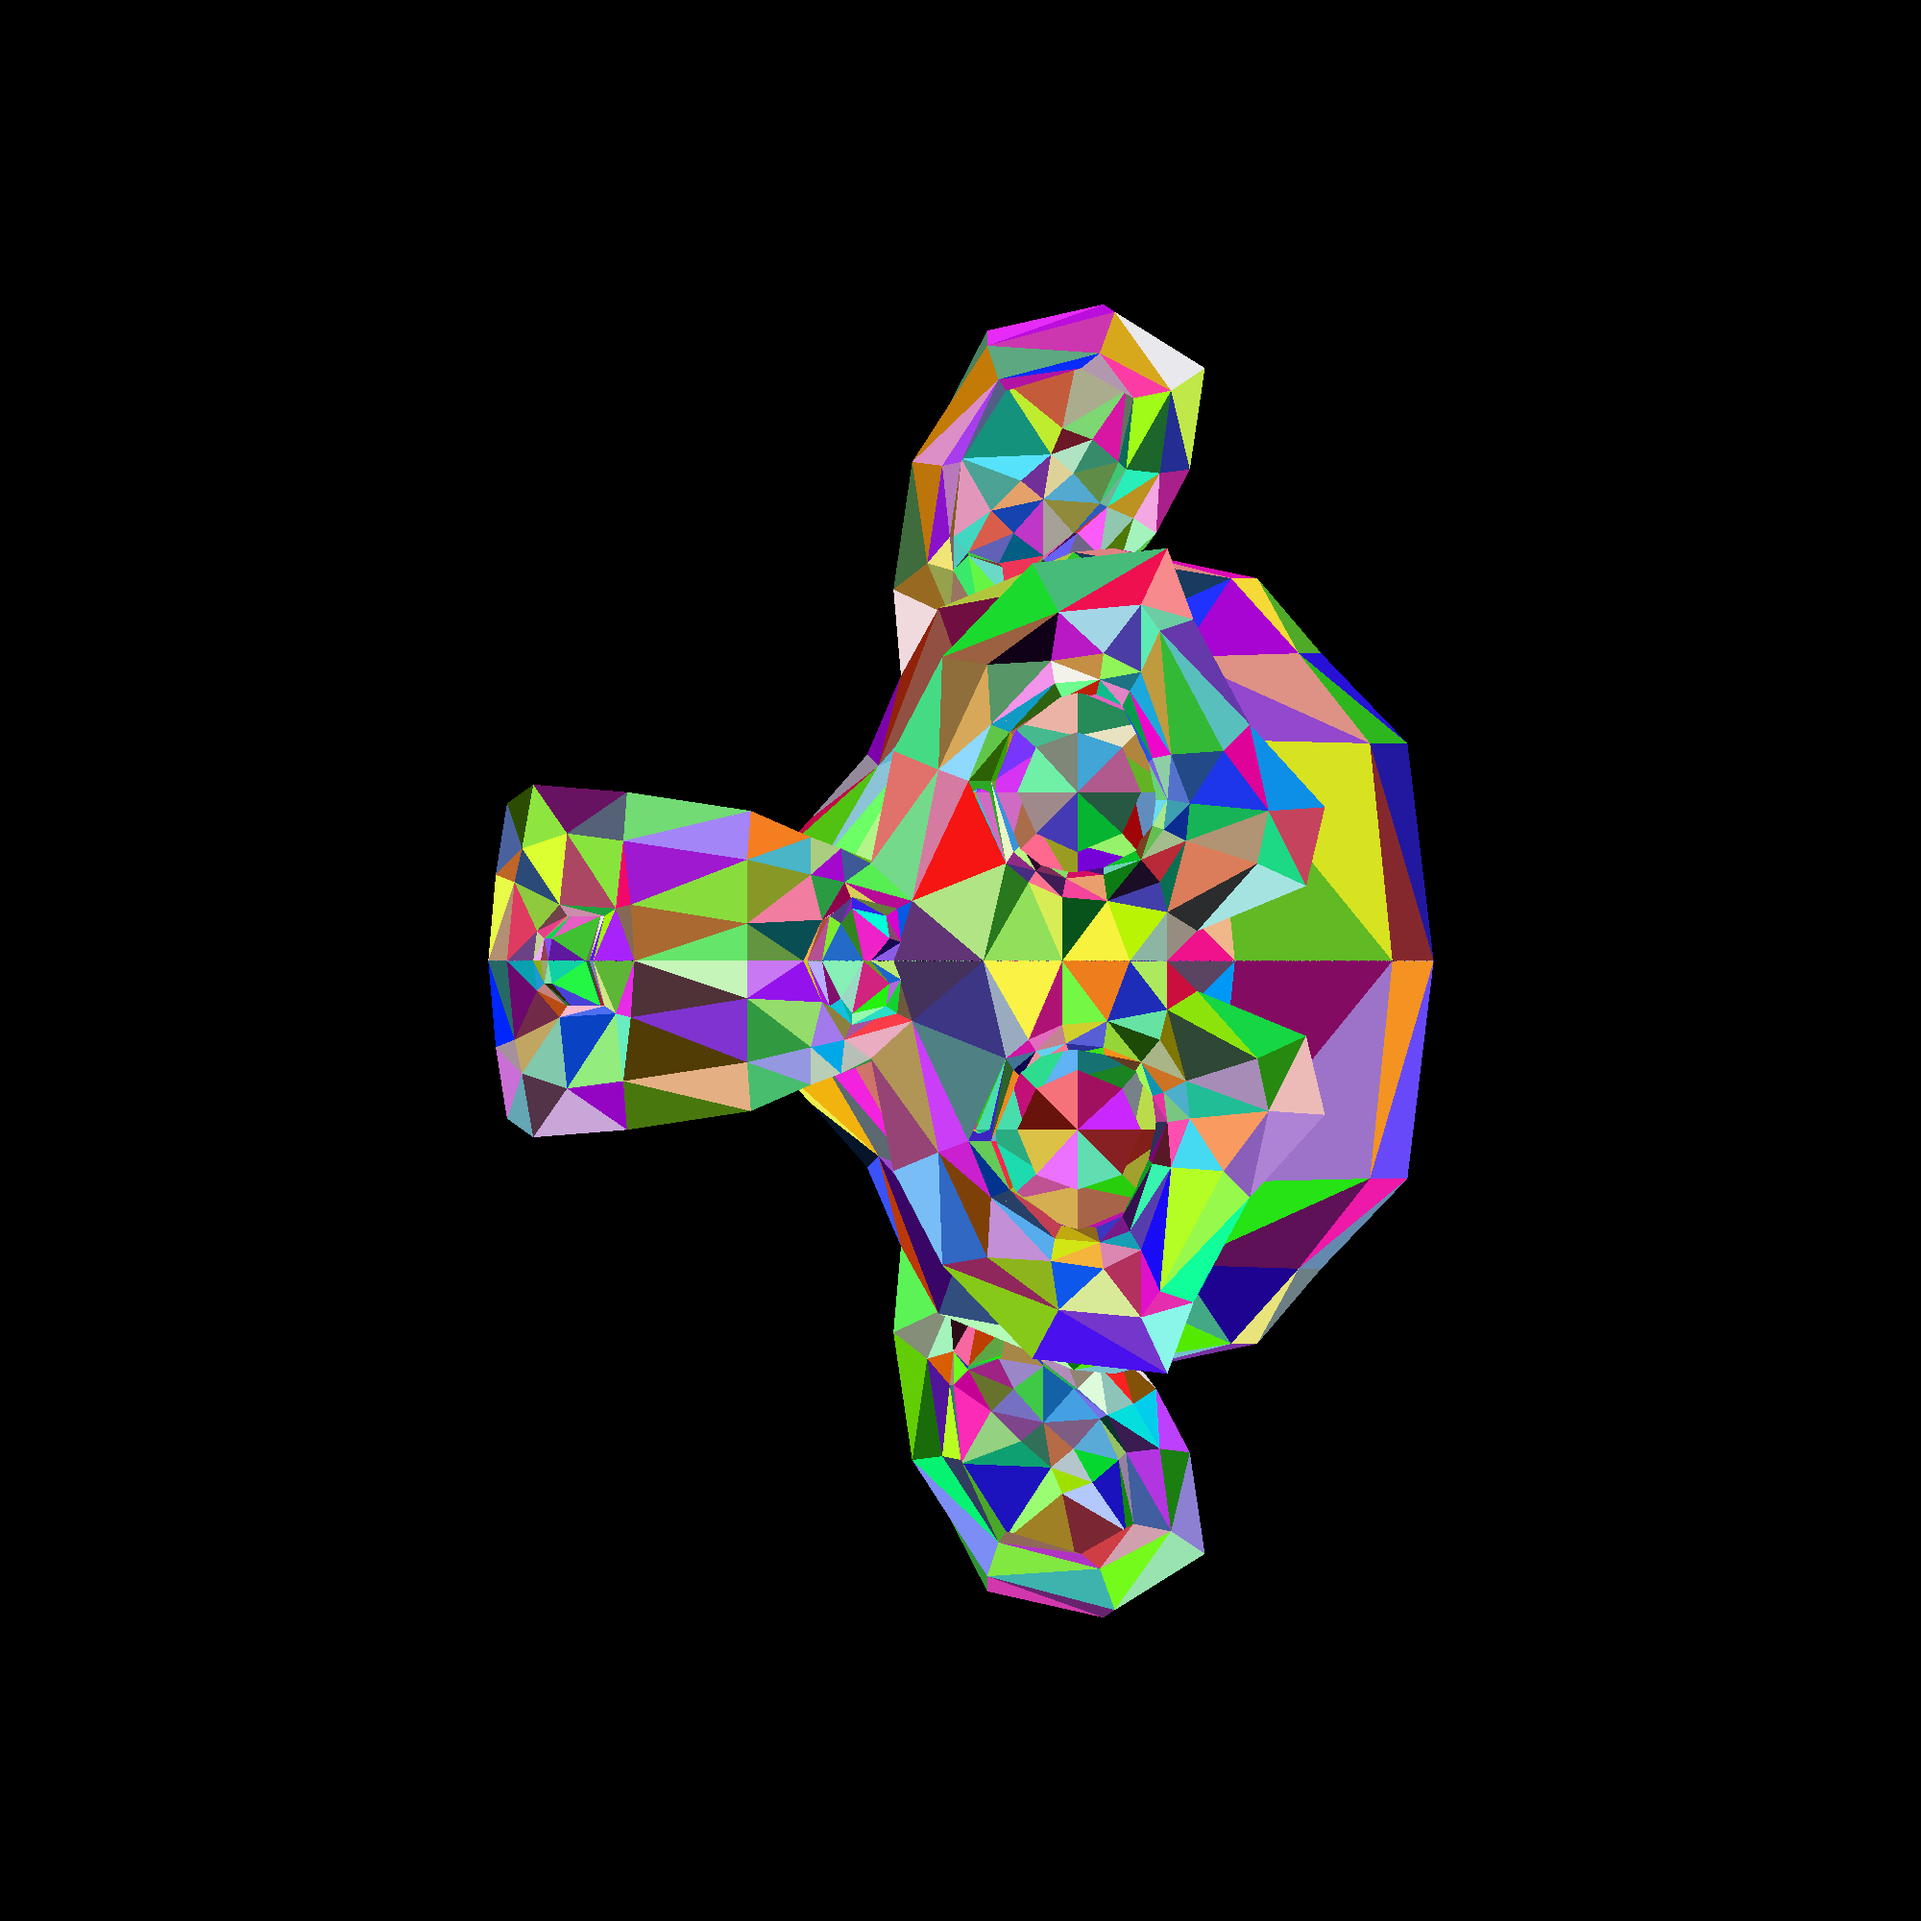
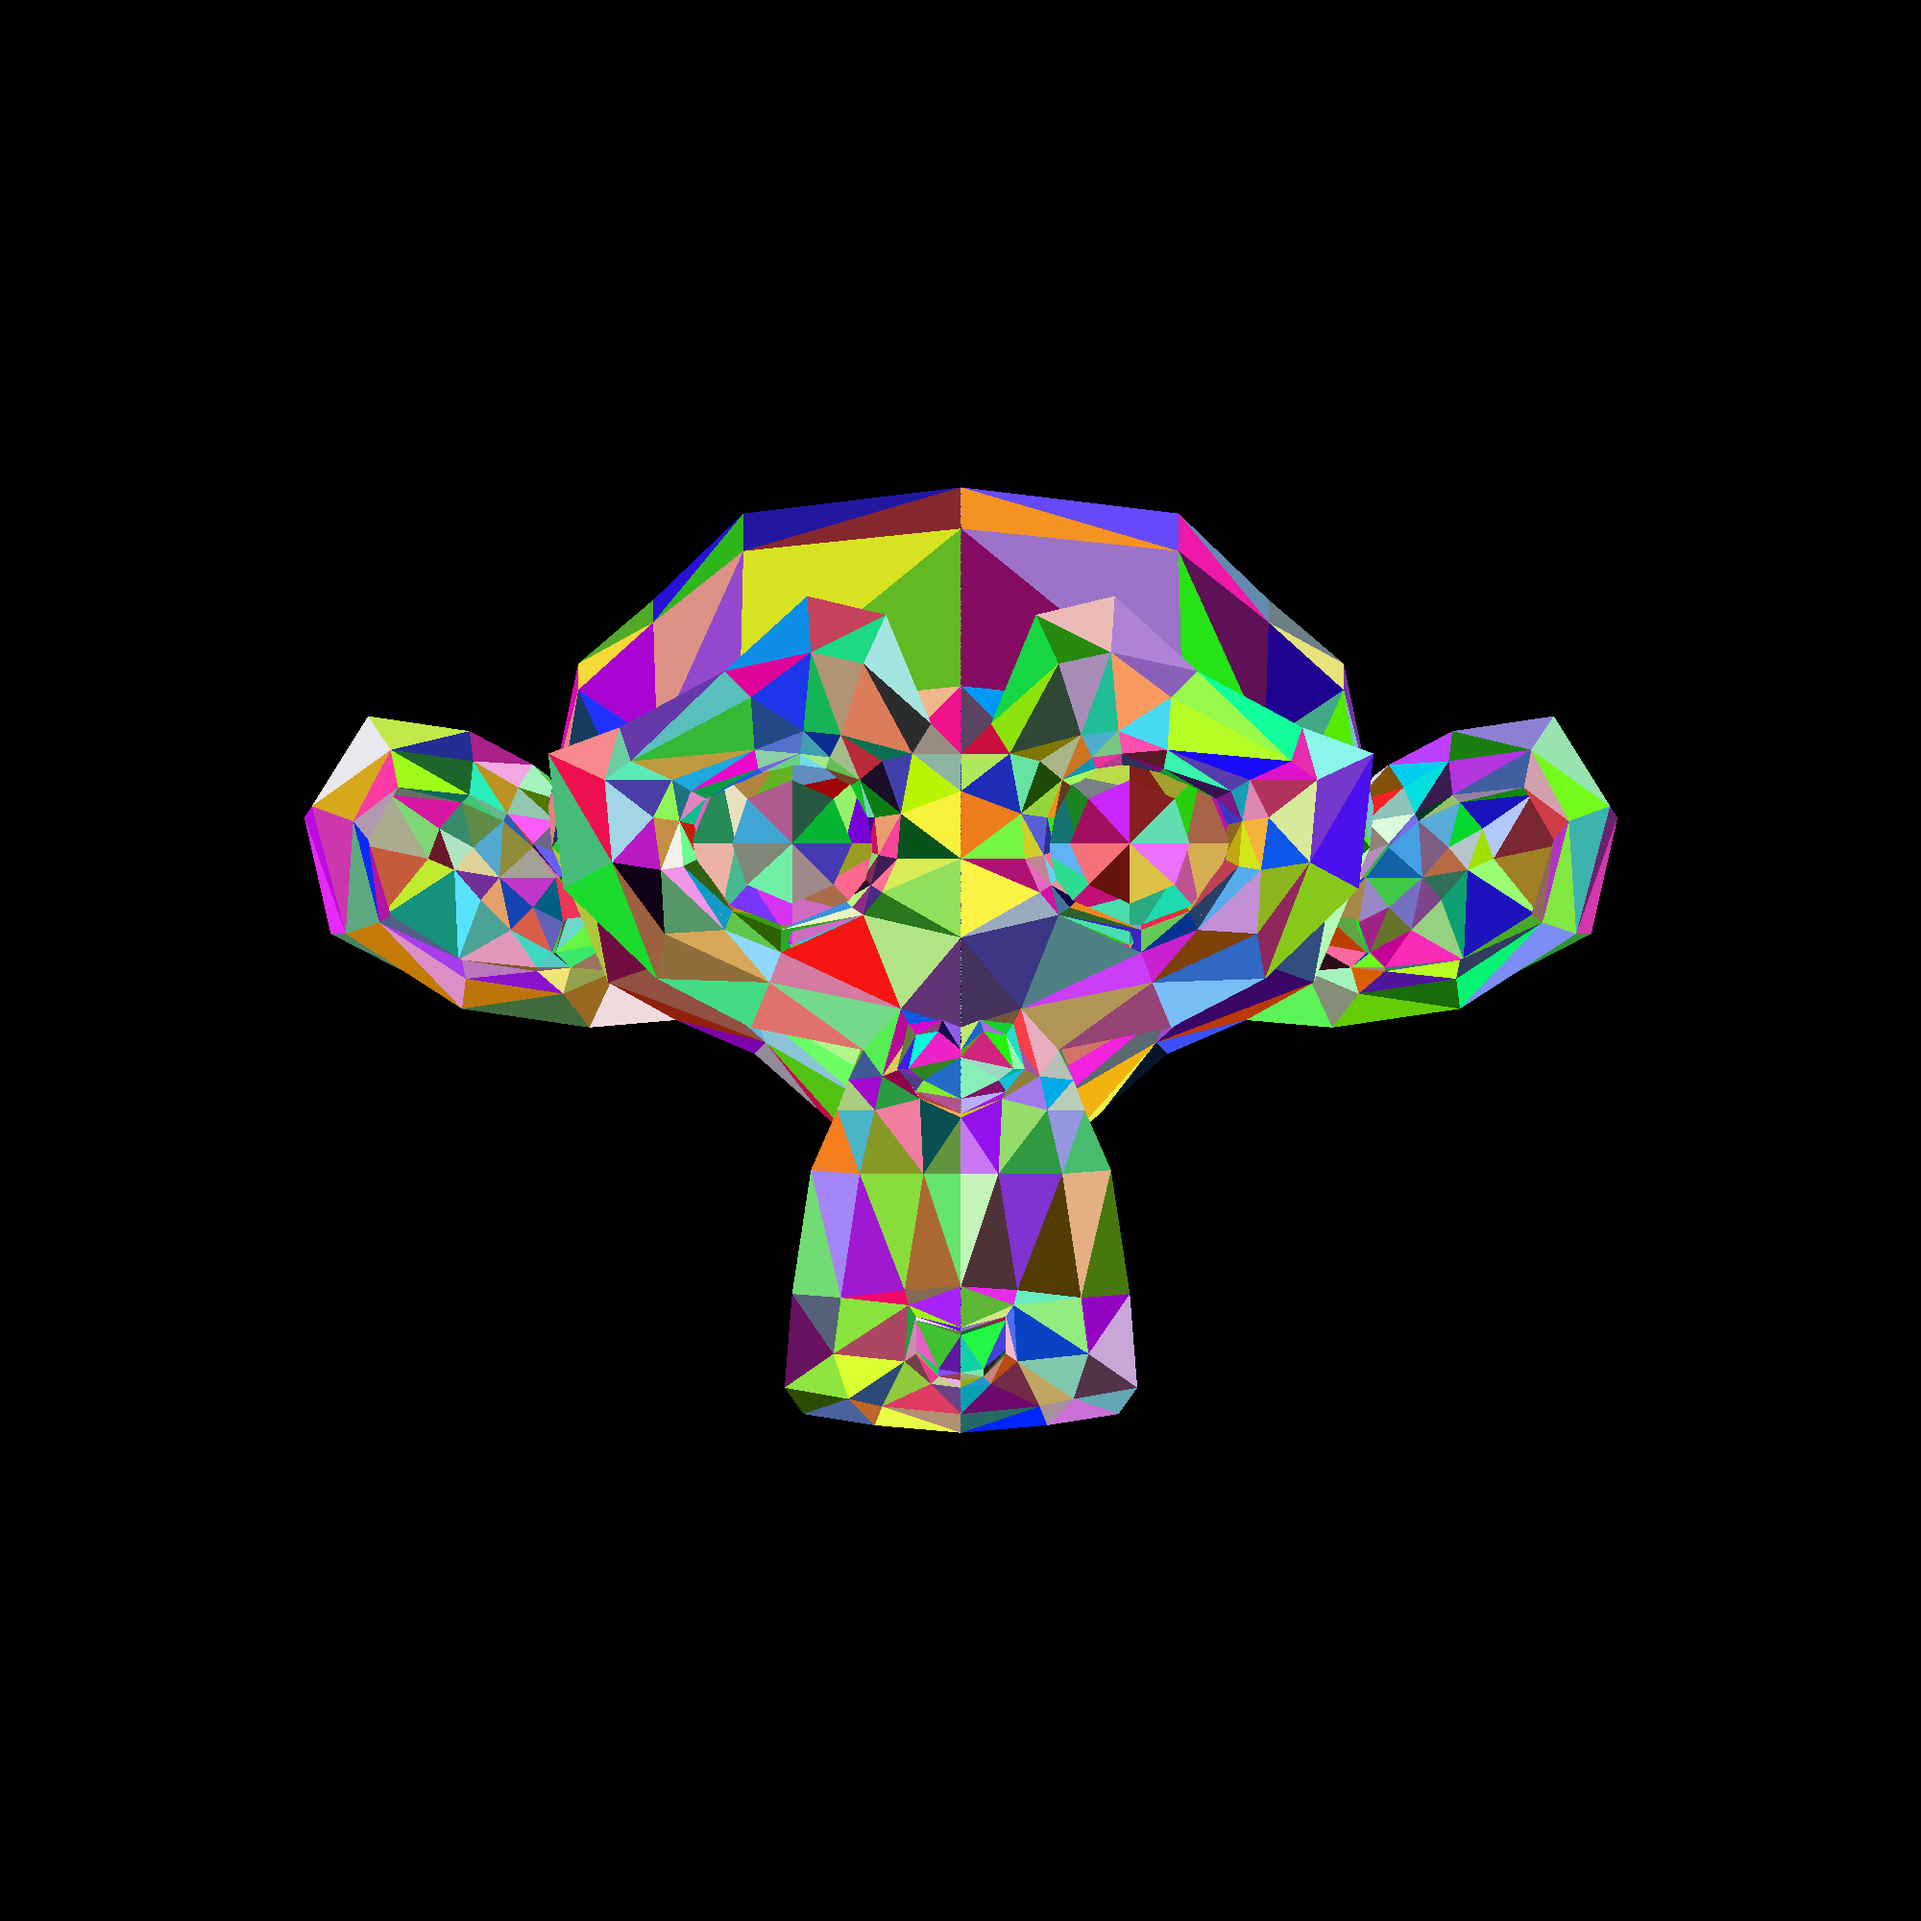
testing some renders

Changed region(s): [[0.155, 0.155, 0.837, 0.837]]

diff --git a/src/main.cpp b/src/main.cpp
@@ -4052,9 +4052,10 @@ void testSuzanRender()
     std::cout << "_________Space Test_______________" << std::endl;
 
     // Define the grid size and step
+    size_t factor = 2;
     size_t ratio = 1;
-    unsigned int size = 8000 / ratio;
-    double cam_step = 0.0025f * ratio;
+    unsigned int size = (4000 * factor) / ratio;
+    double cam_step = (0.005f / factor) * ratio;
 
     // camera config
     point camOrigin(0, 0, 0);
